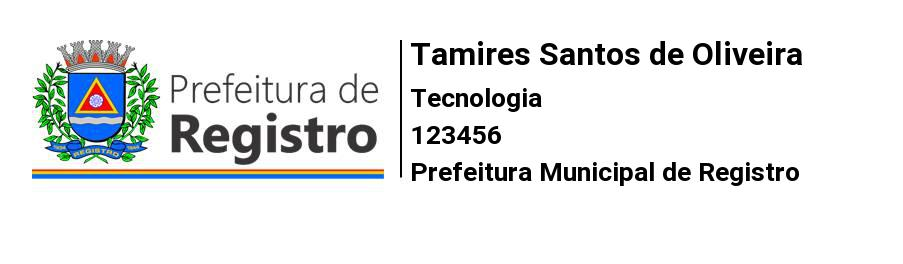
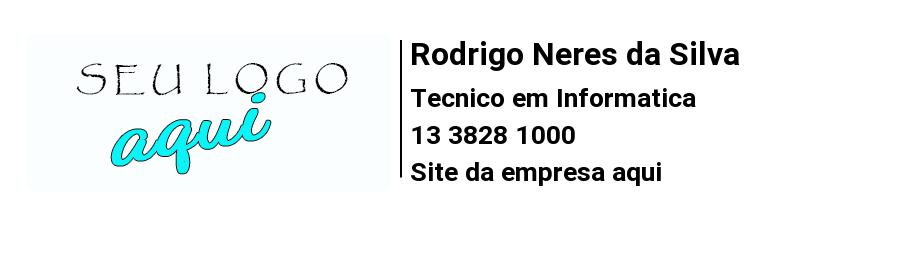
Ajustando imagens

diff --git a/assinatura.php b/assinatura.php
@@ -3,7 +3,10 @@
     $nome = $_POST['nome'];
     $cargo = $_POST['cargo'];
     $telefone = $_POST['telefone'];
+    $escolha = $_POST['escolha'];
 
+
+    if($escolha=='imagem'){
 // Gerando imagem
         $output = "assinatura.jpg";
 
@@ -16,20 +19,16 @@
         $text1 = imagettftext($image,24,0,410,65,$black,$font_path,"$nome");
         $text1 = imagettftext($image,20,0,410,107,$black,$font_path,"$cargo");
         $text1 = imagettftext($image,20,0,410,144,$black,$font_path,"$telefone");
-        $text1 = imagettftext($image,20,0,410,181,$black,$font_path,"Prefeitura Municipal de Registro");
+        $text1 = imagettftext($image,20,0,410,181,$black,$font_path,"Site da empresa aqui");
         //$text1 = imagettftext($image,20,0,410,181,$black,$font_path,"Ramal - $ramal");
         //$text1 = imagettftext($image,20,0,410,181,$black,$font_path,"Secretaria - $secretaria");
         imagejpeg($image,$output);
 
-        ?>
-
-     <table>
-        <tr>
-            <td>   
-                <img src="<?php echo $output; ?>" width="600">
-            </td>
+        ?>   
+        <img src="<?php echo $output; ?>" width="600">
+        <?php
+} elseif($escolha=='html'){?>
 <!-- Gerando html-->
-            <td>
                 <style>
                     table tr td {
                         font-size: 20px;
@@ -39,7 +38,7 @@
                 <table>
                     <tr>
                         <td rowspan="5">
-                            <img src="http://www.registro.sp.gov.br/images/logo-registro-n.png" width="160">
+                            <img src="img/signature.png" width="100">
                         </td>
                     </tr>
                     <tr>
@@ -52,14 +51,11 @@
                         <td><?php echo $telefone; ?></td>
                     </tr>
                     <tr>
-                        <td><a href="http://www.registro.sp.gov.br/Default.asp">Prefeitura Municipal de Registro</a></td>
+                        <td><a href="https://www.google.com">Site da empresa aqui</a></td>
                     </tr>
                 </table>
-            </td>
-        </tr>
-        <tr>
-            <td><a href="assinatura.jpg" dowload="Minha Assinatura"><button>Baixar Imagem</button></a></td>
-            <td><a href="assinatura.html" dowload="Minha Assinatura"><button>Baixar Html</button></a></td>
-        </tr>
-    </table>
+                <?php }
+                ?>
+            <!--<td><a href="assinatura.jpg" dowload="Minha Assinatura"><button>Baixar Imagem</button></a></td>
+            <td><a href="assinatura.html" dowload="Minha Assinatura"><button>Baixar Html</button></a></td>-->
     

diff --git a/index.php b/index.php
@@ -24,10 +24,9 @@
                 </div>
                 <br>
                 
-                <!--    <input type="radio" id="imagem" name="escolha" value="imagem">Imagem</input>
+                <input type="radio" id="imagem" name="escolha" value="imagem">IMAGEM</input>
                 
-                    <input type="radio" id="html" name="escolha" value="html">Html</input><br>
-                -->
+                <input type="radio" id="html" name="escolha" value="html">HTML</input><br>
                     <button class="button" type="submit">Gerar Assinatura</button>
             </form>
         </div>
